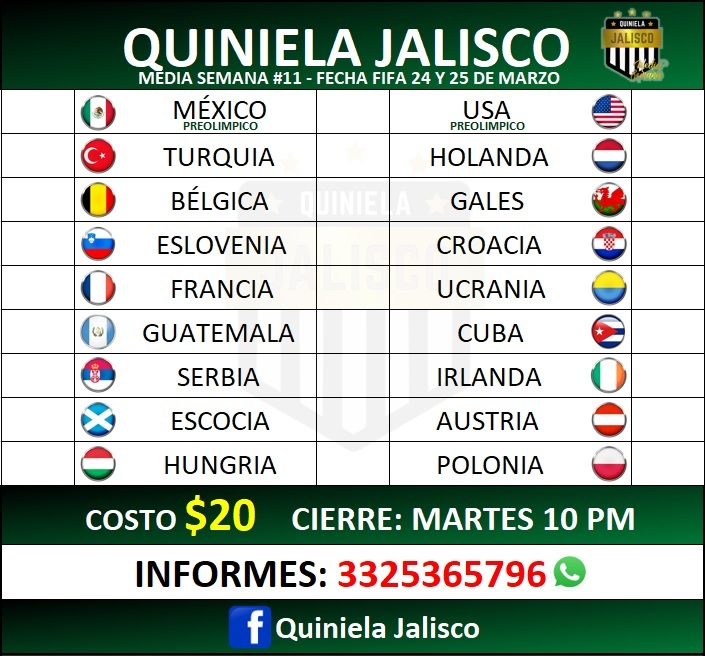
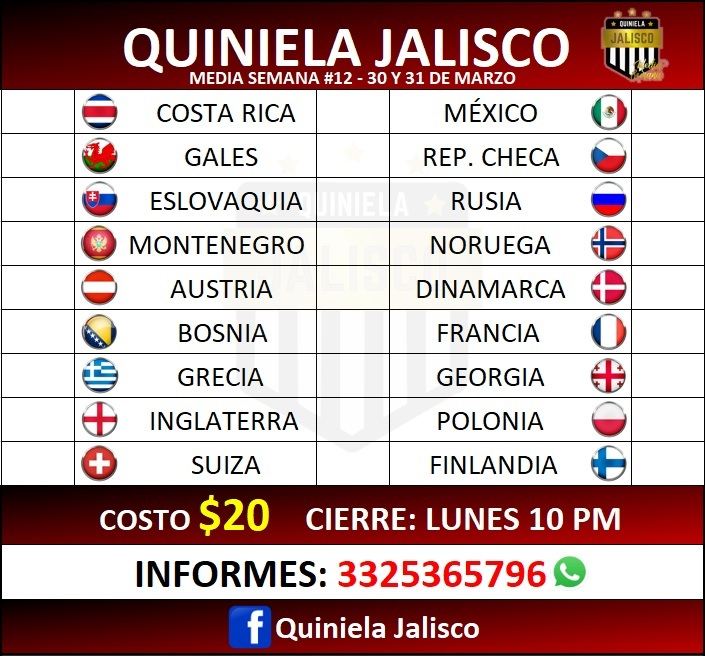
Media Semana #12

diff --git a/MediaSemana/stylesm.css b/MediaSemana/stylesm.css
@@ -74,7 +74,7 @@ body{
     max-width: 400px;
     margin: auto;
     background-color: rgb(6,12,37);
-    background-image: url("https://scontent.fgdl9-1.fna.fbcdn.net/v/t1.15752-9/137283536_890356291793865_5108326858837343769_n.png?_nc_cat=107&ccb=3&_nc_sid=ae9488&_nc_eui2=AeEVKOLwdlbfAQLE3wpKkw--NTZzkTmIhec1NnOROYiF52Z-FCynEkgjFoY4PEj0WQs0C0rXLHiKzTDucUCh8lwj&_nc_ohc=tQyjqhJUzo8AX8S-PFG&_nc_ht=scontent.fgdl9-1.fna&oh=287d178e9b7390d79f3bd4d9af1cb954&oe=60624C53");
+    background-image: url("fondom.jpg");
     background-repeat: repeat-y;
     background-position: top;
 }
@@ -89,8 +89,8 @@ h1{
     margin-top: 8%;
     border: solid 1px black;
     border-radius: 0 0 14px 14px;
-    background: -webkit-linear-gradient(0.04turn, rgb(0,0,0)  ,rgb(1,111,50) 80%);
-    background: linear-gradient(0.04turn, rgb(0,0,0)  ,rgb(1,111,50) 80%);
+    background: -webkit-linear-gradient(0.04turn, rgb(0,0,0)  ,rgb(180,2,2) 80%);
+    background: linear-gradient(0.04turn, rgb(0,0,0)  ,rgb(180,2,2) 80%);
     font-size: x-large;
 }
 
